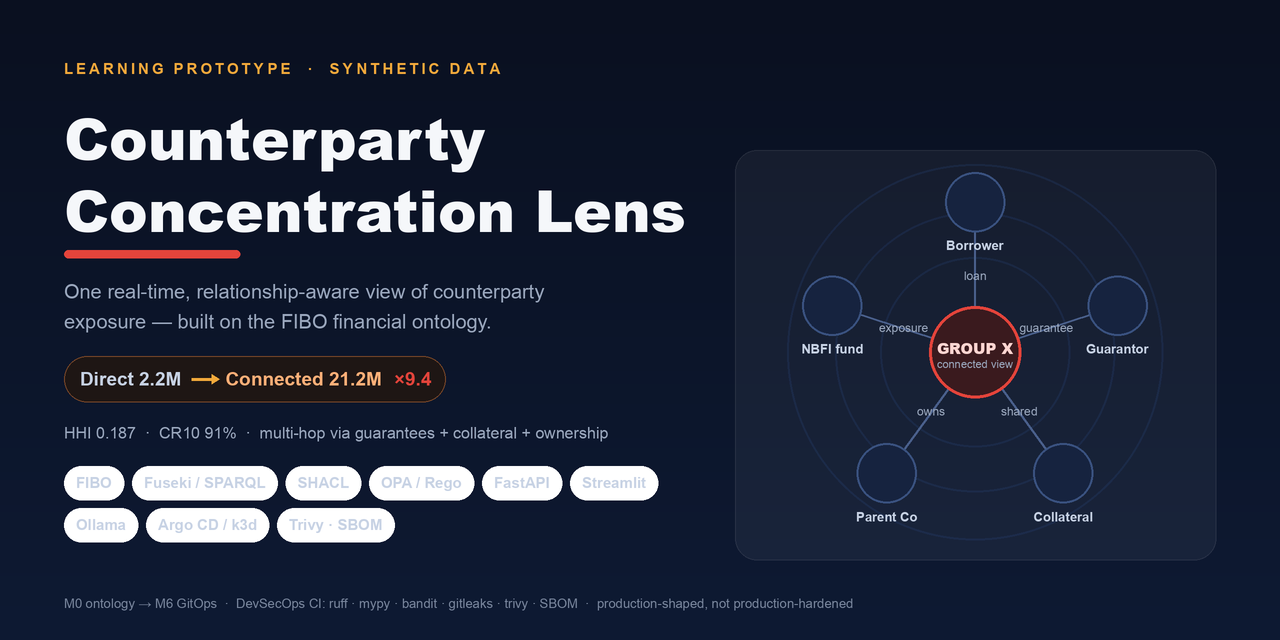
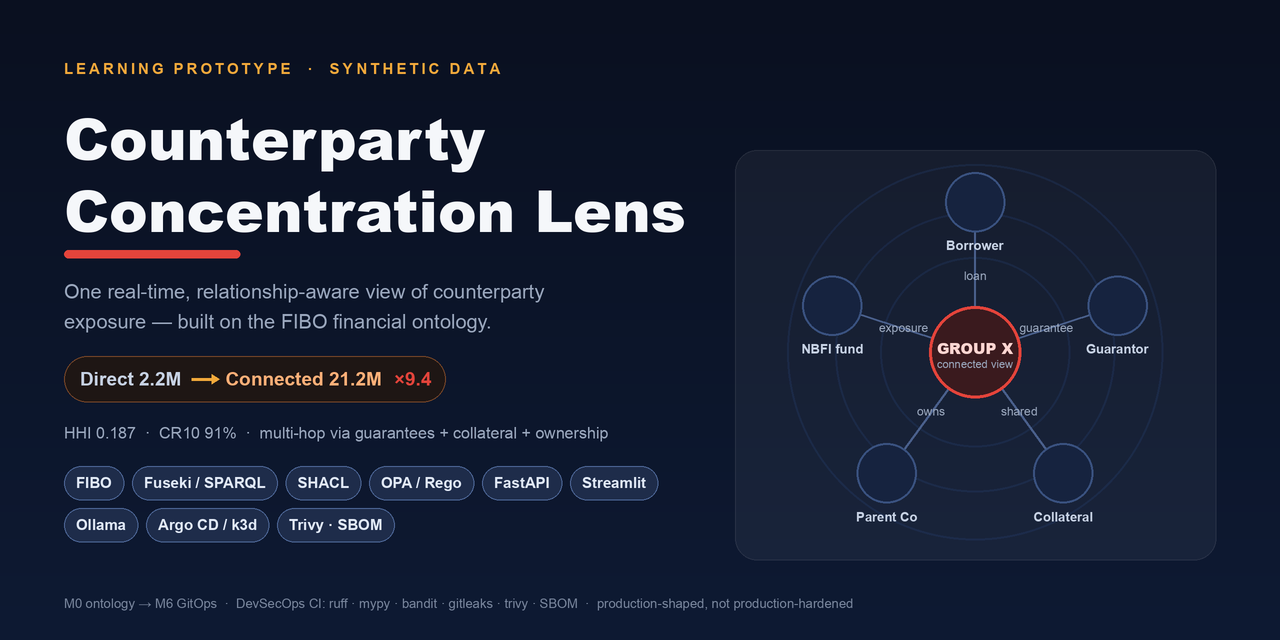
docs: darken stack chips for legibility on the social card
Solid navy chip fill with bright text instead of translucent white + grey, so the
FIBO / Fuseki / SPARQL / SHACL / … stack labels read clearly.

Changed region(s): [[0.0312, 0.7188, 0.5312, 0.875]]

diff --git a/docs/img/make_social.py b/docs/img/make_social.py
@@ -212,11 +212,11 @@ def main() -> None:
         d.rounded_rectangle(
             (cx0, cyrow, cx0 + cw, cyrow + row_h),
             radius=row_h // 2,
-            fill=(255, 255, 255, 16),
-            outline=(255, 255, 255, 36),
+            fill=(30, 44, 74),
+            outline=(78, 104, 152),
             width=1 * S,
         )
-        d.text((cx0 + 12 * S, cyrow + 8 * S), c, font=fchip, fill=CHIP_TX)
+        d.text((cx0 + 12 * S, cyrow + 8 * S), c, font=fchip, fill=(225, 233, 246))
         cx0 += cw + gap
 
     # footer